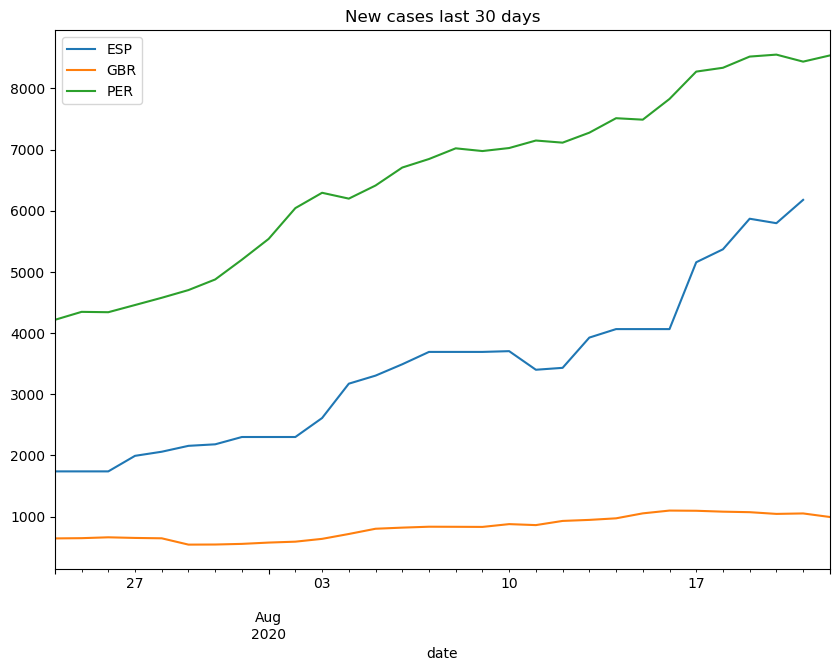
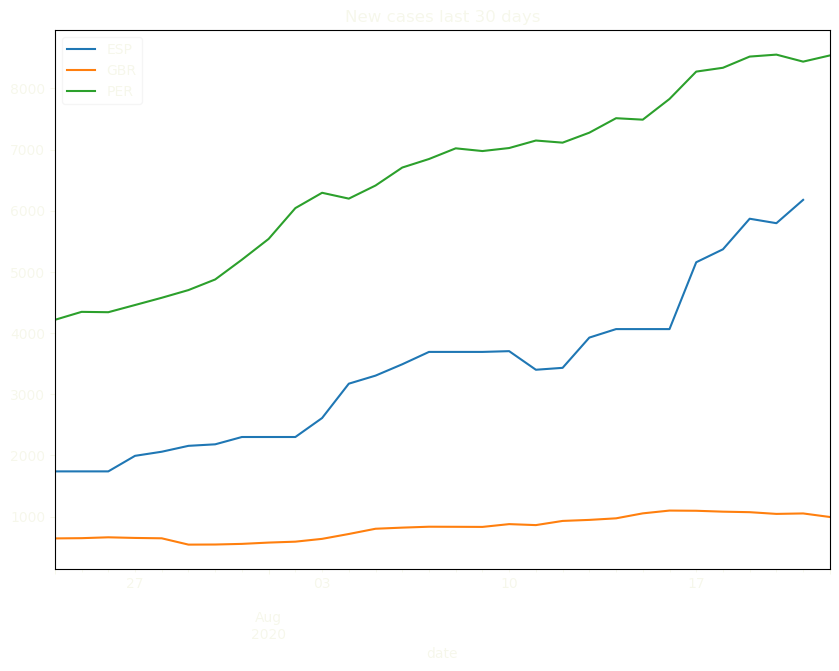
color palette

diff --git a/Covid/covid.py b/Covid/covid.py
@@ -1,6 +1,13 @@
 import pandas as pd
 import numpy as np
 import matplotlib.pyplot as plt
+import matplotlib as mpl
+
+COLOR = '#F6F7EB'
+mpl.rcParams['text.color'] = COLOR
+mpl.rcParams['axes.labelcolor'] = COLOR
+mpl.rcParams['xtick.color'] = COLOR
+mpl.rcParams['ytick.color'] = COLOR
 
 url = 'https://covid.ourworldindata.org/data/owid-covid-data.csv'
 df = pd.read_csv(url, error_bad_lines=False)
@@ -14,26 +21,26 @@ df = df.sort_index().last('30D')
 
 fig, ax = plt.subplots(figsize=(10,7));
 df.groupby('iso_code').new_cases_smoothed.plot(ax=ax);
-plt.legend();
+plt.legend(fancybox=True, framealpha=0.2);
 plt.title('New cases last 30 days');
-plt.savefig('daily_cases_smooth.png', bbox_inches = 'tight');
+plt.savefig('daily_cases_smooth.png', bbox_inches = 'tight', transparent=True);
 
 fig, ax = plt.subplots(figsize=(10,7));
 df.groupby('iso_code').new_cases.plot(ax=ax);
-plt.legend();
+plt.legend(fancybox=True, framealpha=0.2);
 plt.title('New cases last 30 days');
-plt.savefig('daily_cases.png', bbox_inches = 'tight');
+plt.savefig('daily_cases.png', bbox_inches = 'tight', transparent=True);
 
 fig, ax = plt.subplots(figsize=(10,7));
 df.groupby('iso_code').new_deaths.plot(ax=ax);
-plt.legend();
+plt.legend(fancybox=True, framealpha=0.2);
 plt.title('New deaths last 30 days');
-plt.savefig('daily_deaths.png', bbox_inches = 'tight');
+plt.savefig('daily_deaths.png', bbox_inches = 'tight', transparent=True);
 
 # SVG
 
 fig, ax = plt.subplots(figsize=(10,7));
 df.groupby('iso_code').new_cases_smoothed.plot(ax=ax);
-plt.legend();
+plt.legend(fancybox=True, framealpha=0.2);
 plt.title('New cases last 30 days');
-plt.savefig('daily_cases_smooth.svg', bbox_inches = 'tight');
+plt.savefig('daily_cases_smooth.svg', bbox_inches = 'tight', transparent=True);
